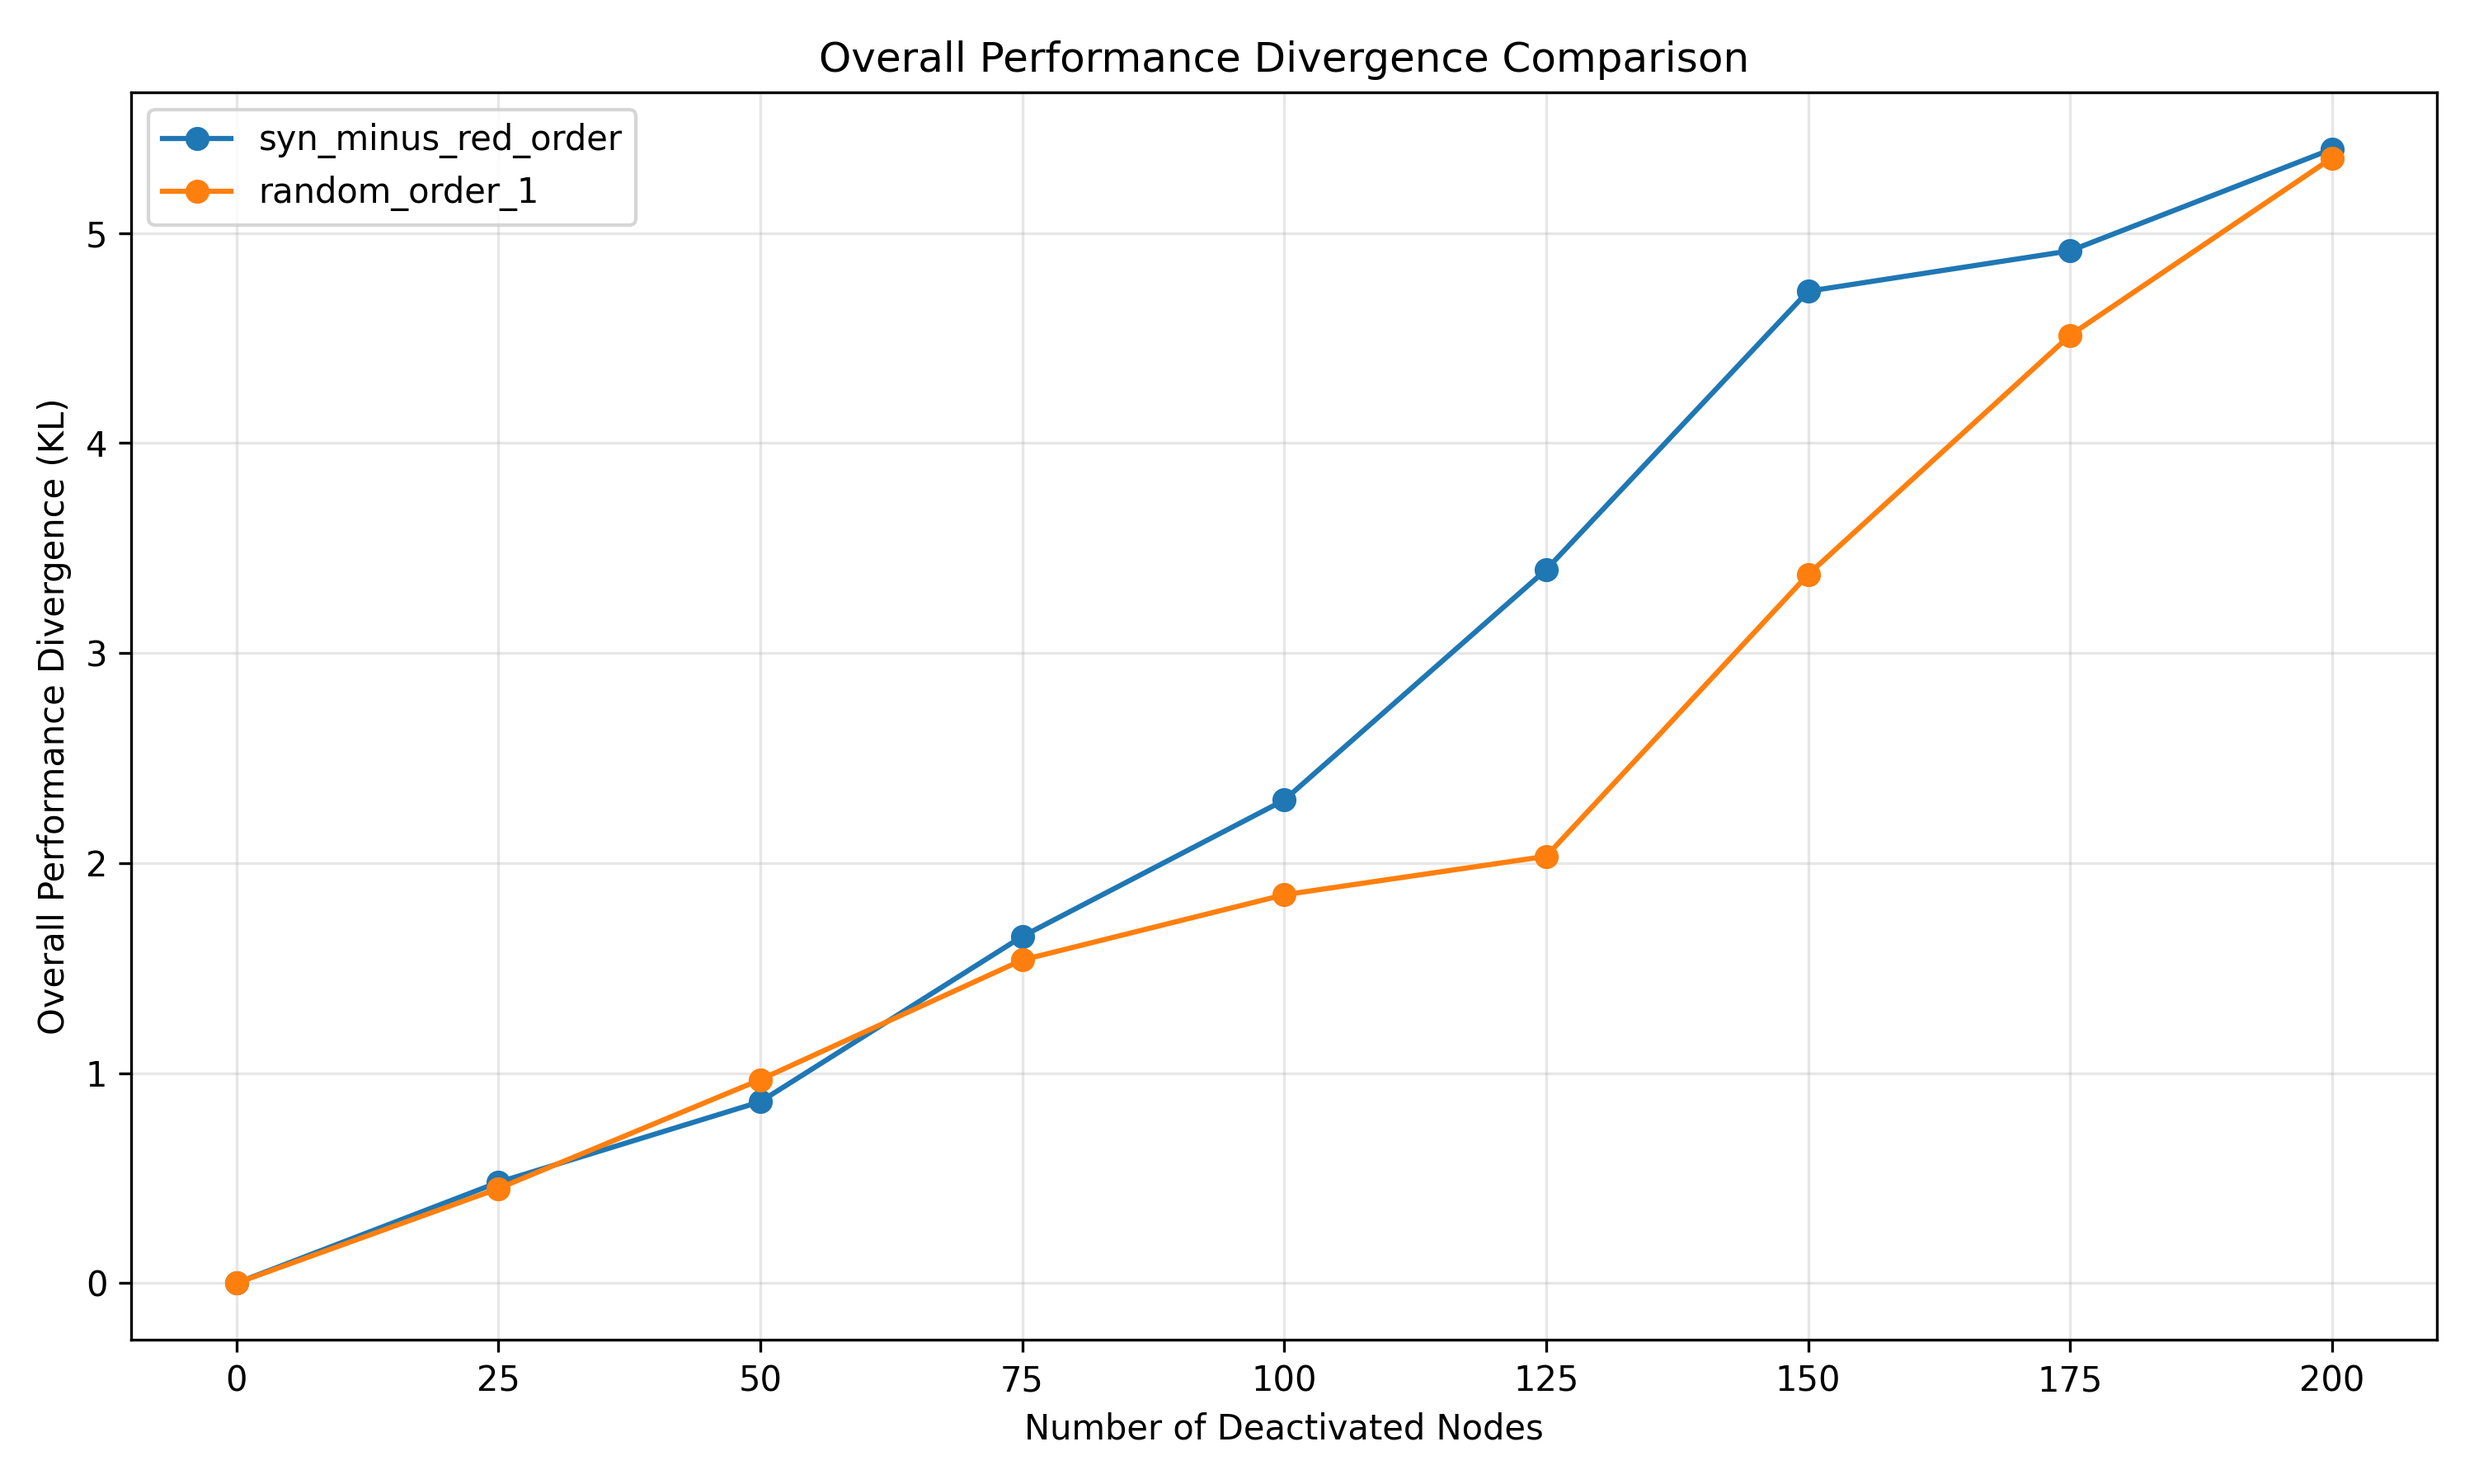
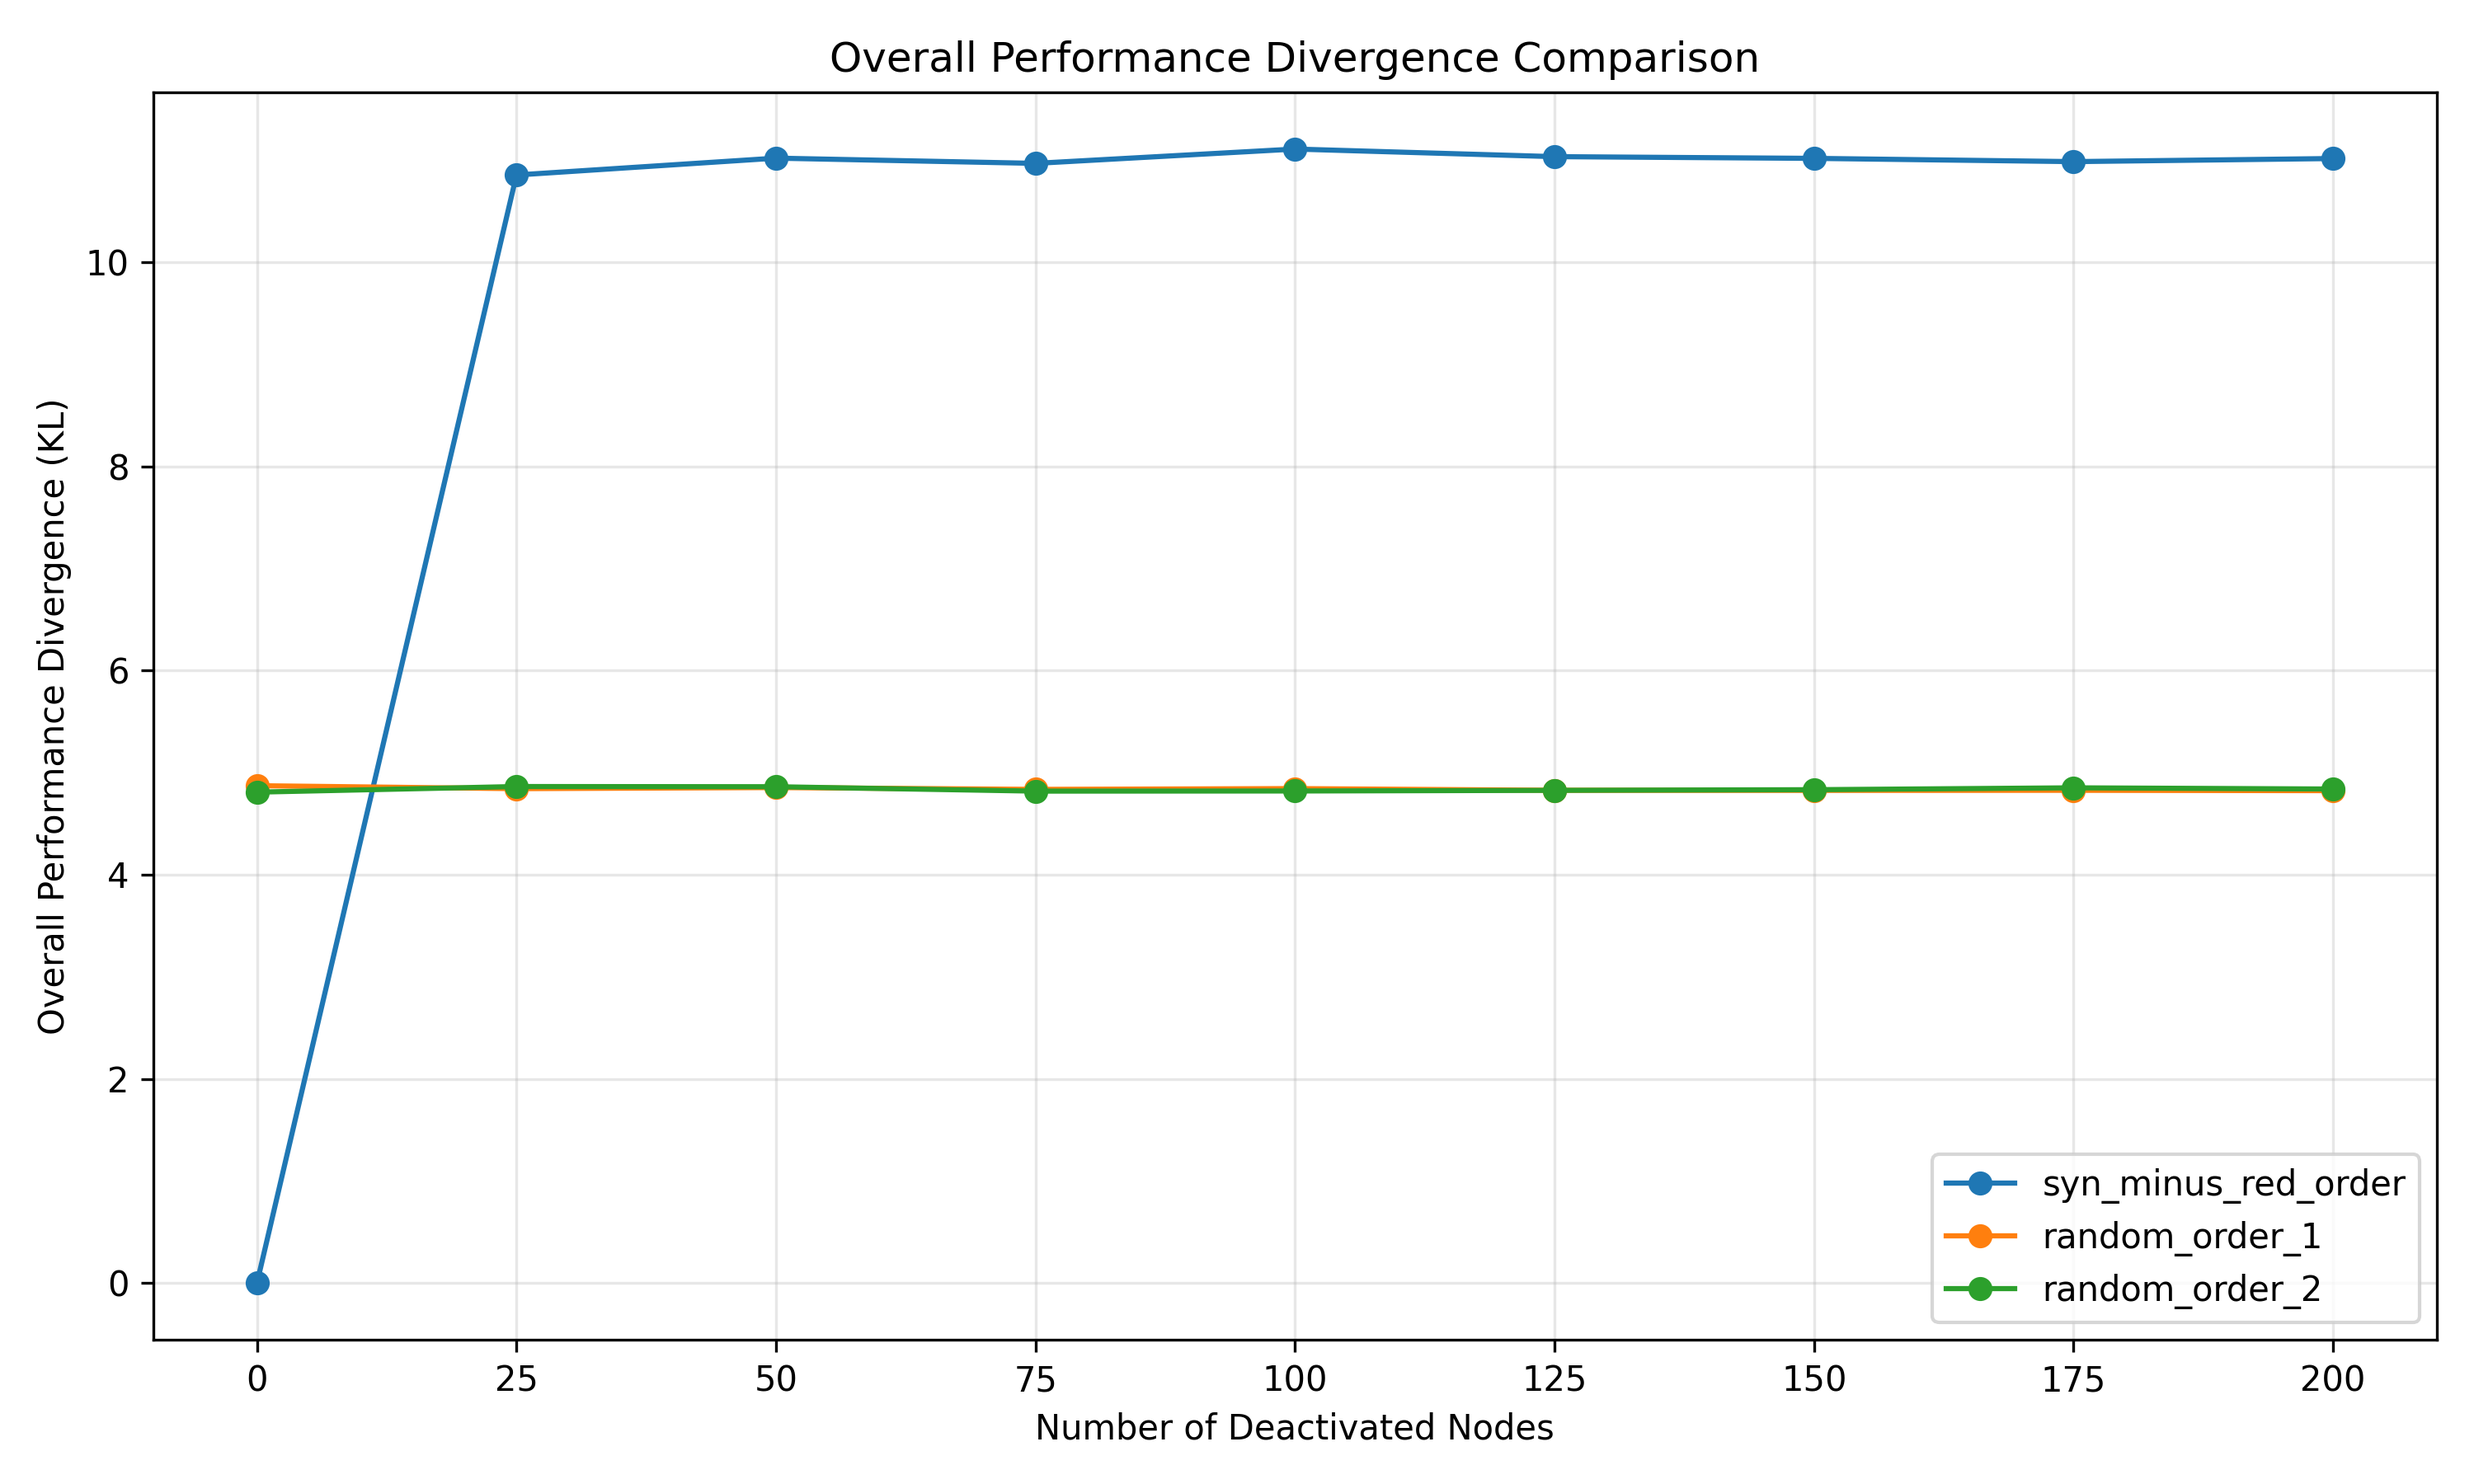
added noise llama

diff --git a/src/ranked_deactivation_analysis/deactivate_model_parts.py b/src/ranked_deactivation_analysis/deactivate_model_parts.py
@@ -1,5 +1,5 @@
 from transformers import PreTrainedModel, PreTrainedTokenizer
-from typing import List, Tuple, Dict, Union
+from typing import List, Optional, Tuple, Dict, Union
 import torch
 import torch.nn as nn
 from contextlib import contextmanager
@@ -32,25 +32,24 @@ def group_nodes_by_layer(nodes_to_deactivate: List[Tuple[int, int]]) -> Dict[int
 
 class ModuleDeactivator:
     @staticmethod
-    def deactivate_self_attn(module: nn.Module, nodes: List[int]):
+    def deactivate_self_attn(module: nn.Module, nodes: List[int], noise_std: Optional[float] = None):
         """
         Deactivate self-attention heads in the module by setting their weights to zero.
         
         :param module: The self-attention module to modify.
         :param nodes: List of node indices (heads) to deactivate.
         """
-        if not hasattr(module, 'deactivated_heads'):
-            raise ValueError("Module does not support deactivation. Ensure it has 'deactivated_heads' attribute.")
-
-        module.deactivated_heads = nodes
+        if not hasattr(module, 'set_deactivated_heads'):
+            raise ValueError("Module does not support deactivation. Implement `set_deactivated_heads`.")
+        module.set_deactivated_heads(nodes, noise_std)
 
 
     @staticmethod
-    def deactivate_mlp(module: nn.Module, nodes: List[int]):
+    def deactivate_mlp(module: nn.Module, nodes: List[int], noise_std: Optional[float] = None):
         raise NotImplementedError()
     
     @staticmethod
-    def deactivate_selected_nodes(module: nn.Module, nodes: List[int], module_type: str):
+    def deactivate_selected_nodes(module: nn.Module, nodes: List[int], module_type: str = "self_attn", noise_std: Optional[float] = None):
         """
         Deactivate specific nodes in the module.
 
@@ -61,7 +60,7 @@ class ModuleDeactivator:
         fn = getattr(ModuleDeactivator, f"deactivate_{module_type}", None)
         if fn is None:
             raise ValueError(f"Unsupported module type: {module_type}")
-        return fn(module, nodes)
+        return fn(module=module, nodes=nodes, noise_std=noise_std)
 
 
 
@@ -70,6 +69,7 @@ def deactivate_model_parts(
     model: PreTrainedModel,
     nodes_to_deactivate: List[Tuple[int, int]],
     module_name: str = "self_attn", # "self_attn", "mlp", ...
+    noise_std: Optional[float] = None
 ):
     """
     Temporarilly deactivate specific nodes in the model by setting their weights to zero.
@@ -95,7 +95,8 @@ def deactivate_model_parts(
         ModuleDeactivator.deactivate_selected_nodes(
             module=module,
             nodes=nodes,
-            module_type=module_name
+            module_type=module_name, # e.g., "self_attn", "mlp"
+            noise_std=noise_std
         )
 
     try:

diff --git a/src/modified_models/modeling_llama.py b/src/modified_models/modeling_llama.py
@@ -17,7 +17,7 @@
 # WITHOUT WARRANTIES OR CONDITIONS OF ANY KIND, either express or implied.
 # See the License for the specific language governing permissions and
 # limitations under the License.
-from typing import Callable, Optional, Union
+from typing import Callable, Optional, Union, List
 
 import torch
 import torch.utils.checkpoint
@@ -195,7 +195,9 @@ class LlamaAttention(nn.Module):
 
     def __init__(self, config: LlamaConfig, layer_idx: int):
         super().__init__()
-        self.deactivated_heads = [] # Added for the Freezing Experiments
+        self.deactivated_heads = []
+        self._deactivated_heads_tensor = None
+        self.noise_std = None  # None = zero-out, else Gaussian noise
 
         self.config = config
         self.layer_idx = layer_idx
@@ -217,6 +219,17 @@ class LlamaAttention(nn.Module):
         self.o_proj = nn.Linear(
             config.num_attention_heads * self.head_dim, config.hidden_size, bias=config.attention_bias
         )
+
+    def set_deactivated_heads(self, heads: List[int], noise_std: Optional[float] = None):
+        """
+        Set the attention heads to deactivate, optionally with noise.
+        
+        :param heads: List of head indices to deactivate.
+        :param noise_std: If None, deactivate by zeroing. If float, add Gaussian noise with this std.
+        """
+        self.deactivated_heads = heads
+        self.noise_std = noise_std
+        self._deactivated_heads_tensor = (torch.tensor(heads, dtype=torch.long) if heads else None)
 
     def forward(
         self,
@@ -262,10 +275,13 @@ class LlamaAttention(nn.Module):
         activations["attention_outputs"] = attn_output.transpose(1, 2).contiguous() # Swap dims 1 and 2
 
         # Deactivate heads for the Freezing Experiments
-        if len(self.deactivated_heads) > 0: 
-            attn_output = attn_output.clone()
-            for head in self.deactivated_heads:
-                attn_output[:, :, head, :] = 0.0
+        if self._deactivated_heads_tensor is not None:
+            heads = self._deactivated_heads_tensor.to(attn_output.device)
+            if self.noise_std is None:
+                attn_output[:, :, heads, :] = 0.0
+            else:
+                noise = torch.randn_like(attn_output[:, :, heads, :]) * self.noise_std
+                attn_output[:, :, heads, :] += noise
 
 
         # ---------- NEW: per-head projection (for analysis only) -------------

diff --git a/src/ranked_deactivation_analysis/RankedDeactivationExperiment.py b/src/ranked_deactivation_analysis/RankedDeactivationExperiment.py
@@ -51,6 +51,7 @@ class RankedDeactivationExperiment:
         reverse_order: bool = False,
         save_file_path: Optional[str] = None,
         reverse_kl: bool = False,
+        noise_std: Optional[float] = None,
     ) -> RankedDeactivationResults:
         """Run a single deactivation experiment.
 
@@ -84,6 +85,7 @@ class RankedDeactivationExperiment:
             micro_batch_size=micro_batch_size,
             save_file_path=save_file_path,
             reverse_kl=reverse_kl,
+            noise_std=noise_std,
         )
 
         # Stash for later comparison.
@@ -104,6 +106,7 @@ class RankedDeactivationExperiment:
         n_randomised_runs: int = 1,
         reverse_kl: bool = False,
         run_reverse_ranking: bool = False,
+        noise_std: Optional[float] = None,
     ) -> Dict[str, RankedDeactivationResults]:
         """Run the *original* and a *randomised* deactivation order back‑to‑back."""
 
@@ -115,6 +118,7 @@ class RankedDeactivationExperiment:
             micro_batch_size=micro_batch_size,
             randomise_order=False,
             reverse_kl=reverse_kl,
+            noise_std=noise_std,
         )
 
         # Reverse Synergistic Order
@@ -127,6 +131,7 @@ class RankedDeactivationExperiment:
                 randomise_order=False,
                 reverse_order=True,
                 reverse_kl=reverse_kl,
+                noise_std=noise_std,
             )
 
         # Run the randomised order multiple times if requested.
@@ -138,6 +143,7 @@ class RankedDeactivationExperiment:
                 micro_batch_size=micro_batch_size,
                 randomise_order=True,
                 reverse_kl=reverse_kl,
+                noise_std=noise_std,
             )
         return self.runs
 

diff --git a/src/ranked_deactivation_analysis/RankedDeactivationAnalysis.py b/src/ranked_deactivation_analysis/RankedDeactivationAnalysis.py
@@ -2,7 +2,7 @@ import pickle
 import os
 import random
 from transformers import AutoModelForCausalLM, AutoTokenizer
-from typing import List, Tuple, Union, Dict
+from typing import List, Optional, Tuple, Union, Dict
 import xarray as xr
 import torch
 from dataclasses import dataclass
@@ -206,12 +206,13 @@ class RankedDeactivationAnalysis:
         )
   
     def run(
-            self, 
-            deactivate_k_nodes_per_iteration: int, 
-            max_deactivated_nodes: Union[int, None] = None, 
-            micro_batch_size: int = 32, 
-            save_file_path: str = None,
-            reverse_kl: bool = False
+        self, 
+        deactivate_k_nodes_per_iteration: int, 
+        max_deactivated_nodes: Union[int, None] = None, 
+        micro_batch_size: int = 32, 
+        save_file_path: str = None,
+        reverse_kl: bool = False,
+        noise_std: Optional[float] = None
     ) -> RankedDeactivationResults:
         """
         Run the ranked deactivation analysis on the model with the given prompts.
@@ -257,7 +258,9 @@ class RankedDeactivationAnalysis:
             with deactivate_model_parts(
                 model=self.model,
                 nodes_to_deactivate=nodes_to_deactivate,
-                module_name="self_attn"  # or "mlp", etc.
+                module_name="self_attn",  # "self_attn", "mlp", etc.
+                noise_std=noise_std # Optional noise standard deviation for deactivation
+
             ) as deactivated_model:
                 # Re-run the generation with the deactivated nodes
                 # Dict[str, List[GenResult]] where GenResult = (tokens, probs, decoded_text)

diff --git a/scripts/ranked_deactivations.py b/scripts/ranked_deactivations.py
@@ -66,6 +66,7 @@ def main(cfg: DictConfig) -> None:
         n_randomised_runs=cfg.deactivation_analysis.n_randomised_runs,
         reverse_kl=cfg.deactivation_analysis.reverse_kl,
         run_reverse_ranking=cfg.deactivation_analysis.run_reverse_ranking,
+        noise_std=cfg.deactivation_analysis.noise_std,
     )
     experiment.plot_overall(plot_dir=cfg.paths.plot_deactivation_dir)
     experiment.plot_per_category(plot_dir=cfg.paths.plot_deactivation_dir)
